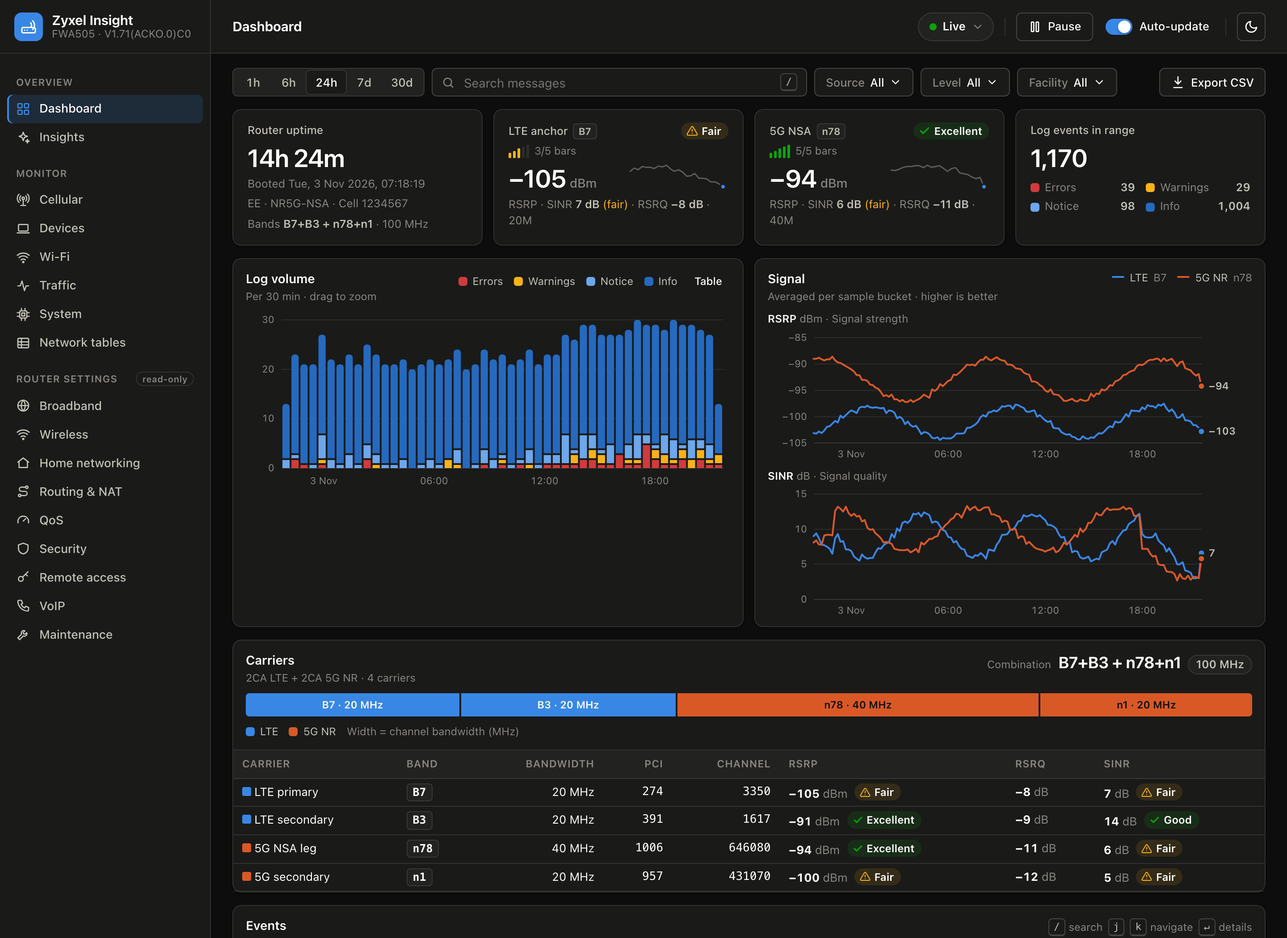
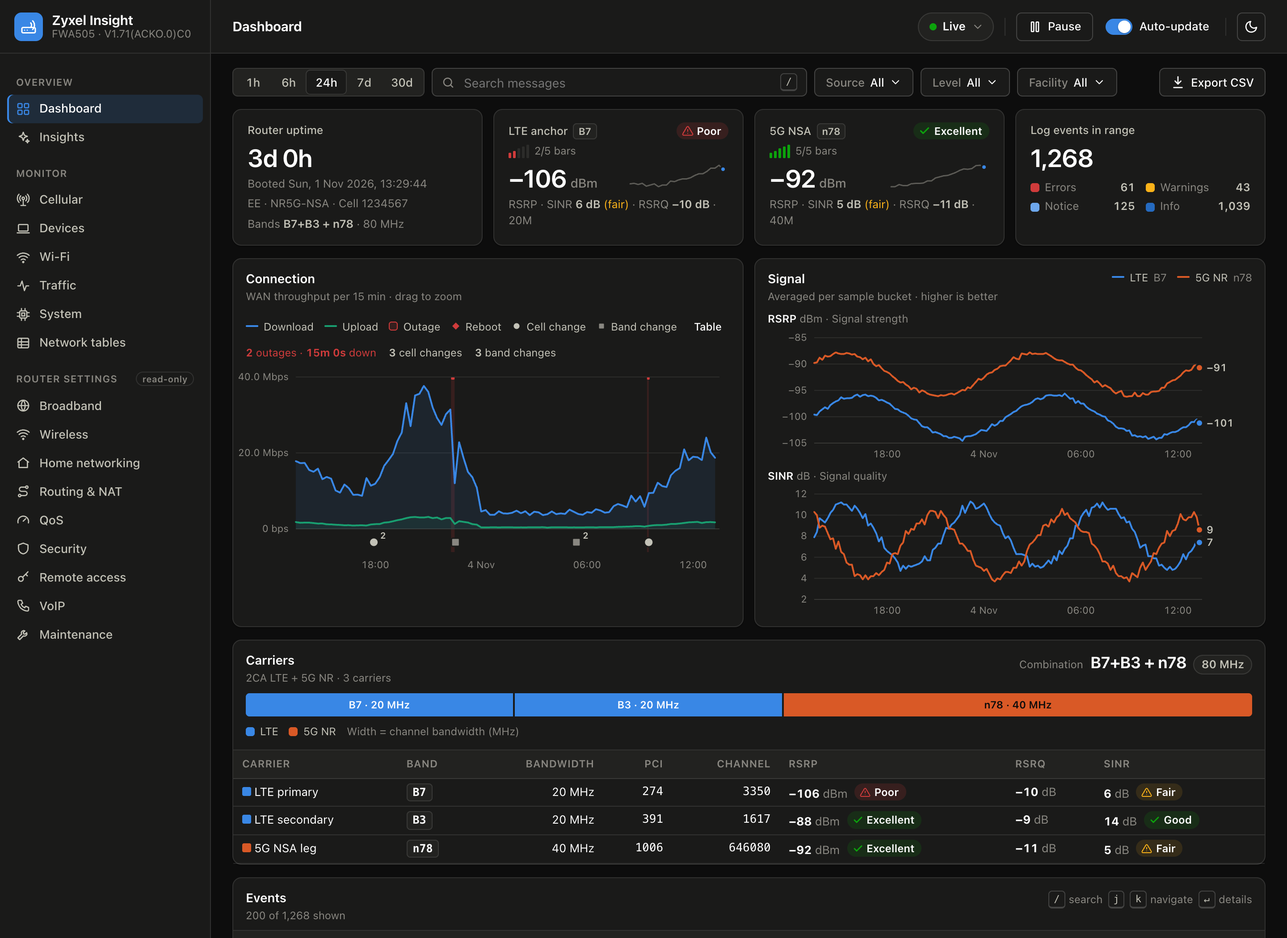
Update docs and screenshots

diff --git a/README.md b/README.md
@@ -2,7 +2,7 @@
 
 A local monitoring and diagnostics dashboard for the **Zyxel FWA505** 5G router. It collects what the router's own admin page only shows in the moment: signal and carrier history, connected devices, traffic, reboots and logs. It then turns that history into insights, such as configuration risks, reliability and actionable signal advice.
 
-Insight runs on your own computer, talks only to your router, and is **strictly read-only**.
+Insight runs on your own computer, talks only to your router, and is **read-only**, with two deliberate exceptions: the Messages tab can send, mark read and delete SMS on the router's SIM, and Radio control can change the preferred network mode and bands, always as a trial that reverts unless kept (`SMS_ENABLED=false` and `RADIO_CONTROL_ENABLED=false` turn them off).
 
 ![Dashboard](docs/screenshots/dashboard.png)
 
@@ -31,16 +31,20 @@ Insight runs on your own computer, talks only to your router, and is **strictly 
 - **Log archive:** the router keeps only its last ~100 log lines in memory and loses them on reboot. Insight copies them continuously, deduplicates them and stores them in SQLite. Remote syslog can be added for complete history.
 - **Signal history:** LTE and 5G RSRP, SINR and RSRQ every 5 seconds, plus per-carrier readings for every aggregated band.
 - **Carriers and change events:** the active band combination (for example `B7+B3 + n78+n1`) and total aggregated bandwidth, with an event logged whenever a carrier or serving cell changes.
-- **Reboots and outages:** reboots are detected from uptime, even ones that happen while Insight is stopped, and stamped with the real boot time. Periods when the router stopped answering are recorded as outages.
+- **Reboots and outages:** reboots are detected from uptime, even ones that happen while Insight is stopped, and stamped with the real boot time. Outages are recorded in two kinds: the router stopped answering Insight, or it answered but its mobile data connection was down (no SIM, cellular interface down, or no WAN address).
 - **Devices:** first and last seen, connect and disconnect history, a new-device alert, and per-device Wi-Fi signal over time.
 - **Traffic:** live throughput and daily data usage, computed from the router's interface counters.
+- **Radio control:** choose the network mode (automatic, 5G SA, 5G NSA, 4G only) and which bands the modem may use, with each band's measured strength, quality and time in use beside it, and suggestions from that history (for example "strongest 4G + all 5G"). Every change is a 5-minute trial that switches back unless you keep it. Also shows the live carrier aggregation and the serving mast's eNodeB ID and sector, to look up on a coverage map.
+- **Messages:** the SIM's texts as conversations, with replies, new messages, mark-as-read and delete, an unread badge in the sidebar, and a live character and SMS-part counter that uses the router's own encoding (GSM or Unicode, long messages split into parts).
 
 **Insights the router does not provide**
 
-- **Configuration audit:** 20 checks with a security score, covering remote management exposure, WPS, Wi-Fi security, DFS channels, UPnP, DMZ, SNMP, firmware updates and logging.
+- **Configuration audit:** 21 checks with a security score, covering whether the router is reachable from the Internet at all (carrier-grade NAT), remote management exposure, WPS, Wi-Fi security, DFS channels, UPnP, DMZ, SNMP, firmware updates and logging. Notes are facts and never move the score.
+- **Connection timeline:** WAN throughput on the dashboard with outages, reboots, cell handovers and band changes marked on the same axis, so a slowdown lines up with its cause. Time Insight wasn't collecting is hatched as "not monitored" rather than passing for a quiet period. Click a marker to zoom to that moment and its logs.
 - **Reliability:** availability, outage durations, and reboots with or without a logged reason.
-- **Signal health:** the share of time spent in Good, Fair and Poor signal on the router's own 5-bar scale, worst-10% values, 5G availability and time spent in each band combination.
-- **Recommendations:** prioritised and specific, for example "B3 is 15 dB stronger than your primary B7" or "Phone has weak Wi-Fi".
+- **Signal health:** the share of time spent in Good, Fair and Poor signal on the router's own 5-bar scale, worst-10% values, 5G availability, time spent in each band combination, and an hour-of-day profile of signal quality and download that shows busy-hour dips once there are a few days of data.
+- **Recommendations:** prioritised and specific, based on history rather than a single reading, for example "B3 averages 15 dB stronger than B7, your usual primary", "Signal quality limits speed (5G 5.4 dB)", mobile data drops with their causes, or "Phone has weak Wi-Fi".
+- **Usage:** data used per period, plus this month so far and where it's heading.
 
 **Every router page, read-only**
 
@@ -56,7 +60,7 @@ The router's admin sections (Broadband, Wireless, Home networking, Routing and N
 
 <table>
   <tr>
-    <td width="50%"><b>Insights</b>: audit, recommendations, signal health, reliability<br><img src="docs/screenshots/insights.png" alt="Insights"></td>
+    <td width="50%"><b>Insights</b>: audit, recommendations, signal health, hour-of-day profile, usage<br><img src="docs/screenshots/insights.png" alt="Insights"></td>
     <td width="50%"><b>Cellular</b>: carriers, band combination, signal history<br><img src="docs/screenshots/cellular.png" alt="Cellular"></td>
   </tr>
   <tr>
@@ -67,9 +71,10 @@ The router's admin sections (Broadband, Wireless, Home networking, Routing and N
     <td><b>System</b>: load, reboots, outages, device details<br><img src="docs/screenshots/system.png" alt="System"></td>
     <td><b>Router settings</b>: read-only mirror of the admin pages<br><img src="docs/screenshots/settings.png" alt="Router settings"></td>
   </tr>
+  <tr>
+    <td colspan="2" align="center"><b>Messages</b>: the SIM's texts as conversations, with replies and a live SMS-part counter<br><img src="docs/screenshots/messages.png" alt="Messages" width="50%"></td>
+  </tr>
 </table>
-
-<p align="center"><img src="docs/screenshots/mobile.png" alt="Mobile layout" width="280"></p>
 
 All screenshots use the bundled mock router and synthetic demo data. No real network data is shown.
 
@@ -109,10 +114,14 @@ Notes:
 
 ## Safety and privacy
 
-- **Read-only by construction:**
-  - **No writes:** the router client refuses every non-GET request except login and logout, and never calls `DEL_LOG`.
+- **Read-only by construction, with two exceptions:**
+  - **No writes:** the router client refuses every non-GET request except login, logout, SMS and the band selection, and never calls `DEL_LOG`.
+  - **The SMS exception:** `POST`/`PUT`/`DELETE` are allowed to exactly one endpoint, `/cgi-bin/DAL?oid=cellwan_sms`, with a fixed set of parameters, and only while `SMS_ENABLED` is on (the default). That's how the Messages tab sends, marks read and deletes texts. It can't be pointed at any other setting. Sends are never retried (a retry could text twice), are limited to 5 a minute and 30 an hour, and each send or delete is logged with the number partly masked and without the text.
+  - **The band-selection exception:** `PUT` is allowed to exactly one endpoint, `/cgi-bin/DAL?oid=cellwan_band`, with nothing else on the URL, and only while `RADIO_CONTROL_ENABLED` is on (the default). The body is the router's own object with only the network mode and band list changed, checked first against the same rules as the router's admin page (for example, 5G NSA keeps at least one 4G and one 5G band). Each change is a trial: unless you press **Keep** within 5 minutes, Insight puts back the previous selection, also after a restart, and retries until the router accepts it. Changes are at least 15 s apart so the modem can re-register, and each one is logged.
+  - **What it can't do:** cell (PCI) lock isn't offered: firmware V1.71 hides it and returns nothing for it. Carrier aggregation has no setting at all; the network decides it.
+  - **Messages aren't stored:** they're read live from the SIM; Insight keeps no copy, and the router cache skips them. While the dashboard is open, the inbox is checked once a minute for the unread badge.
   - **Allowlist:** router data is read only from an explicit list of endpoints (`server/src/router/catalog.js`).
-  - **Excluded endpoints:** endpoints that do work even on a GET are left out, including network and PLMN scans, ping and iperf tests, azimuth calibration, backup, the online firmware check and SMS.
+  - **Excluded endpoints:** endpoints that do work even on a GET are left out, including network and PLMN scans, ping and iperf tests, azimuth calibration, backup and the online firmware check.
 - **Secrets never reach the browser:** the router returns some credentials in plain text, such as the Wi-Fi passphrase, SNMP communities and service passwords. They are masked on the server. The configuration audit runs on the raw values server-side.
 - **Respects the router:**
   - **Lockout protection:** a rejected login halts collection instead of retrying, because the router locks the account after 3 failures.
@@ -121,7 +130,7 @@ Notes:
 - **Local by default, password on the LAN:**
   - **Bound to localhost:** the server binds to `127.0.0.1` by default. To open it to other devices, set `HOST=0.0.0.0` (or a LAN IP) **and** `DASHBOARD_PASSWORD`; Insight refuses to start on a non-loopback address without a password.
   - **Login:** with `DASHBOARD_PASSWORD` set, every page, API call and live stream needs HTTP Basic auth. The username is ignored (use `insight`). The browser asks once and reuses it. Use it on a trusted LAN only: Basic auth over plain HTTP can be sniffed, so put a TLS reverse proxy in front for anything wider, and never forward the port from the internet.
-  - **Browser protections:** requests must use a known host name (localhost, this machine's IPs and hostname, `ALLOWED_HOSTS`), which blocks DNS-rebinding pages. Buttons that change state (Pause/Resume) need an `X-Insight-Request` header and a same-origin `Origin`, so other sites cannot trigger them. Responses carry a strict Content-Security-Policy, `X-Frame-Options: DENY`, `nosniff` and `no-referrer`.
+  - **Browser protections:** requests must use a known host name (localhost, this machine's IPs and hostname, `ALLOWED_HOSTS`), which blocks DNS-rebinding pages. Requests that change state (Pause/Resume, sending and deleting SMS, band changes) need an `X-Insight-Request` header and a same-origin `Origin`, so other sites cannot trigger them. Responses carry a strict Content-Security-Policy, `X-Frame-Options: DENY`, `nosniff` and `no-referrer`.
   - **Router load caps:** at most 30 endpoints per `/api/router` request, a forced refresh (`fresh=1`) at most once per 10 s per endpoint (30 s for Insights), and at most 20 live (SSE) connections.
   - **Syslog and SNMP listeners:** they bind to `0.0.0.0` so the router can reach them, but only accept packets from the router (the host in `ROUTER_URL`) and loopback, unless `INGEST_ALLOWED_SOURCES` says otherwise. Stored rows are capped at 600 syslog lines and 60 traps per minute; denied and dropped packets are counted in the status and warnings are logged at most once a minute.
   - **Ignored by git:** the database (`server/data/`, including `backups/`) and `.env` are excluded.
@@ -133,36 +142,40 @@ See [SECURITY.md](SECURITY.md) for the threat model and how to report a vulnerab
 
 All settings are environment variables, read from `.env` in the project root. See `.env.example`.
 
-| Variable                            | Default                  | Purpose                                                                                                |
-| ----------------------------------- | ------------------------ | ------------------------------------------------------------------------------------------------------ |
-| `ROUTER_URL`                        | `https://192.168.1.1`    | Router address (self-signed certificate accepted for this host only)                                   |
-| `ROUTER_USER` / `ROUTER_PASSWORD`   | `admin` / none           | Router admin login                                                                                     |
-| `POLL_INTERVAL_SEC`                 | `120`                    | How often the router log (last 100 lines) is read                                                      |
-| `STATUS_INTERVAL_SEC`               | `5`                      | Signal, carriers and uptime                                                                            |
-| `SYSLOG_PORT` / `SYSLOG_HOST`       | `5514` / `0.0.0.0`       | Remote syslog listener                                                                                 |
-| `SNMP_TRAP_PORT` / `SNMP_TRAP_HOST` | `1162` / `0.0.0.0`       | SNMP trap listener                                                                                     |
-| `SNMP_COMMUNITY`                    | empty (any)              | Only accept traps with this community                                                                  |
-| `INGEST_ALLOWED_SOURCES`            | the router's address     | Comma-separated IPs/hostnames allowed to send syslog and traps; `*` = anyone (loopback always allowed) |
-| `HOST` / `PORT`                     | `127.0.0.1` / `4400`     | Web UI and API                                                                                         |
-| `DASHBOARD_PASSWORD`                | empty (no login)         | HTTP Basic password, any username. Required when `HOST` is not loopback                                |
-| `ALLOWED_HOSTS`                     | empty                    | Extra host names the UI may be opened by (DNS name, reverse proxy)                                     |
-| `DB_PATH`                           | `server/data/insight.db` | SQLite database (relative to the project root)                                                         |
-| `RETAIN_LOGS_DAYS`                  | `180`                    | Log retention                                                                                          |
-| `RETAIN_SIGNAL_DAYS`                | `90`                     | 5-second signal sample retention                                                                       |
-| `RETAIN_WIFI_DAYS`                  | `30`                     | Per-device Wi-Fi sample retention                                                                      |
-| `BACKUP_KEEP`                       | `4`                      | Database backups kept in `<DB dir>/backups/` (`0` = off)                                               |
-| `BACKUP_EVERY_DAYS`                 | `7`                      | Days between database backups                                                                          |
+| Variable                            | Default                  | Purpose                                                                                                                         |
+| ----------------------------------- | ------------------------ | ------------------------------------------------------------------------------------------------------------------------------- |
+| `ROUTER_URL`                        | `https://192.168.1.1`    | Router address (self-signed certificate accepted for this host only)                                                            |
+| `ROUTER_USER` / `ROUTER_PASSWORD`   | `admin` / none           | Router admin login                                                                                                              |
+| `POLL_INTERVAL_SEC`                 | `120`                    | How often the router log (last 100 lines) is read                                                                               |
+| `STATUS_INTERVAL_SEC`               | `5`                      | Signal, carriers and uptime                                                                                                     |
+| `SYSLOG_PORT` / `SYSLOG_HOST`       | `5514` / `0.0.0.0`       | Remote syslog listener                                                                                                          |
+| `SNMP_TRAP_PORT` / `SNMP_TRAP_HOST` | `1162` / `0.0.0.0`       | SNMP trap listener                                                                                                              |
+| `SNMP_COMMUNITY`                    | empty (any)              | Only accept traps with this community                                                                                           |
+| `INGEST_ALLOWED_SOURCES`            | the router's address     | Comma-separated IPs/hostnames allowed to send syslog and traps; `*` = anyone (loopback always allowed)                          |
+| `HOST` / `PORT`                     | `127.0.0.1` / `4400`     | Web UI and API                                                                                                                  |
+| `DASHBOARD_PASSWORD`                | empty (no login)         | HTTP Basic password, any username. Required when `HOST` is not loopback                                                         |
+| `ALLOWED_HOSTS`                     | empty                    | Extra host names the UI may be opened by (DNS name, reverse proxy)                                                              |
+| `SMS_ENABLED`                       | `true`                   | Messages tab: read, send and delete SMS on the router's SIM                                                                     |
+| `RADIO_CONTROL_ENABLED`             | `true`                   | Radio control: change the preferred network mode and bands, as trials. With `SMS_ENABLED=false` too, Insight is fully read-only |
+| `DB_PATH`                           | `server/data/insight.db` | SQLite database (relative to the project root)                                                                                  |
+| `RETAIN_LOGS_DAYS`                  | `180`                    | Log retention                                                                                                                   |
+| `RETAIN_SIGNAL_DAYS`                | `90`                     | 5-second signal sample retention                                                                                                |
+| `RETAIN_WIFI_DAYS`                  | `30`                     | Per-device Wi-Fi sample retention                                                                                               |
+| `BACKUP_KEEP`                       | `4`                      | Database backups kept in `<DB dir>/backups/` (`0` = off)                                                                        |
+| `BACKUP_EVERY_DAYS`                 | `7`                      | Days between database backups                                                                                                   |
 
 ## Accuracy and limitations
 
 - **Values come straight from the router:** they were verified against raw reads, and carrier bands, PCI, RSRP, aggregated bandwidth, uptime (within about 1 s) and Wi-Fi client RSSI all match.
+- **"No measurement" is not a reading:** the modem reports placeholders such as `-128` when it has nothing to measure. Those, and anything outside the 3GPP measurement ranges, are dropped rather than stored, so they can't show up as impossible minimums.
+- **Mobile data vs. the router:** the router answering on the LAN says nothing about the internet behind it, so mobile data is judged separately from the SIM state, cellular interface and WAN address. A drop of either kind is an outage; only "router unreachable" also leaves a gap in the signal history.
 - **Signal ratings use the router's own 5-bar RSRP scale,** taken from its web UI, so Insight and the admin page agree. SINR, which the router does not rate, uses standard LTE/NR guidance.
 - **Reboot causes:**
   - **What Insight can know:** that the router restarted, and exactly when.
   - **What it cannot know:** why, unless the router's log says so. A crash, a power cut and a manual reboot look identical, which is why reboots show "no logged reason".
 - **Memory includes cache:** the router reports total and free memory only, so "memory in use" includes reclaimable cache.
 - **Temperature:** none is exposed by this firmware (web API or shell), so Insight does not show one.
-- **History needs Insight running:** while the computer sleeps, only totals (data used, reboots) can be recovered afterwards. Run Insight on an always-on machine for complete history.
+- **History needs Insight running:** while the computer sleeps, only totals (data used, reboots) can be recovered afterwards, and charts hatch that time as "not monitored". Run Insight on an always-on machine for complete history.
 
 ## Development
 
@@ -177,17 +190,23 @@ npm test             # unit tests (node:test)
 
 `server/dev/mock-router.js` serves the same endpoints and response shapes as a real FWA505. The fixtures in `server/dev/fixtures/` were captured read-only from a real device, with credentials masked and identifiers replaced: MACs, serial number, IMEI, IMSI, ICCID, cell ID and network names.
 
+The mock keeps a band selection that Radio control can change. It also has an SMS inbox (GSM, Unicode and a named sender) that receives a new text every 7 minutes, and accepts sends, marking read and deletes, so the Messages tab can be tried without touching a real SIM.
+
+To exercise mobile-data outages, set `MOCK_WAN_DROP=<down>/<cycle>` in seconds, for example `MOCK_WAN_DROP=90/600 npm run mock -w server`: the router stays reachable but loses its WAN address for 90 s out of every 600 s.
+
 ### Project structure
 
 ```
-shared/                 Domain rules shared by server and UI (signal scales, severities)
+shared/                 Domain rules shared by server and UI (signal scales, severities, SMS encoding, band rules)
 server/src/
   index.js              Composition root: wiring, startup, graceful shutdown
-  router/               Read-only router client, endpoint allowlist, shared cache, secret masking
-  collector/            Polling and recovery, radio and carrier interpretation, reboots, samplers
+  router/               Router client (read-only plus SMS and band selection), endpoint allowlist, shared cache, secret masking
+  collector/            Polling and recovery, radio and carrier interpretation, mobile data state, reboots, samplers
   ingest/               Syslog and SNMP trap listeners (shared UDP listener)
   logs/                 Router log and syslog parsing, sliding-window deduplication
-  insights/             Configuration audit, statistics and recommendations
+  insights/             Configuration audit, statistics, recommendations, timeline and monitored coverage
+  sms/                  Messages: live SIM inbox, send, mark read, delete, send limits
+  radio/                Band selection: validation, trials that revert unless kept
   storage/              SQLite schema, statement cache, one repository per area, retention
   events/               Server-Sent Events hub
   http/                 Express app, query parsing, one route module per API area
@@ -199,7 +218,7 @@ web/src/
   hooks/                useAsync, useRouterData, useServerEvents, useUrlFilters, ...
   lib/                  Formatting, labels, chart series and ranges
   components/           ui/ (building blocks), charts/, shell/ (sidebar, top bar)
-  features/             Dashboard- and cellular-specific components
+  features/             Dashboard-, cellular- and insights-specific components
   pages/                One component per route; settings/ mirrors the admin pages
   styles/               Tokens, base, layout, components, charts, pages
 ```
@@ -219,6 +238,8 @@ web/src/
 | Collector shows **Halted**               | The router rejected the login. Fix `ROUTER_USER`/`ROUTER_PASSWORD`, then press **Retry login**. Insight does not retry on its own, to avoid the router's 3-strike lockout. |
 | Admin page says "Duplicated login"       | Press **Pause** in Insight before using the admin page, and **Resume** afterwards.                                                                                         |
 | Remote syslog stays "Not set up"         | Check the router's log server IP and port. Ports below 1024 need root on macOS, so use `5514`.                                                                             |
+| No **Messages** tab                      | `SMS_ENABLED=false` is set. Remove it (or set `true`) and restart Insight.                                                                                                 |
+| No **Radio control** tab                 | `RADIO_CONTROL_ENABLED=false` is set. Remove it (or set `true`) and restart Insight.                                                                                       |
 | A "gap" warning appears in the event log | Lines rolled out of the router's 100-line buffer between reads. Enable remote syslog or lower `POLL_INTERVAL_SEC`.                                                         |
 
 ## Compatibility

diff --git a/SECURITY.md b/SECURITY.md
@@ -9,14 +9,16 @@ Please report security problems privately, not in a public issue: use GitHub's *
 Zyxel Insight is a single-user tool for a home or small-office LAN.
 
 - **Where it runs:** on a computer inside the same LAN as the router. It is not designed to be exposed to the internet; never port-forward it. By default the web UI binds to `127.0.0.1`. On a LAN address it refuses to start without `DASHBOARD_PASSWORD` (HTTP Basic auth). Basic auth over plain HTTP is only as private as the network it crosses; use a TLS reverse proxy if that matters.
-- **What it can do to the router:** read only. The router client refuses every non-GET request except login and logout, and only reads an explicit allowlist of endpoints. Insight cannot change settings, reboot the router or clear its log.
-- **Browser attacks it defends against:** DNS rebinding (Host allowlist), cross-site requests (custom header plus Origin check on state-changing requests), clickjacking and script injection (CSP, `X-Frame-Options`), and spreadsheet formula injection in CSV exports.
+- **What it can do to the router:** read, plus SMS and the band selection. The router client refuses every non-GET request except login, logout, SMS writes and band-selection writes, and only reads an explicit allowlist of endpoints. SMS writes (send, mark read, delete) can reach only `/cgi-bin/DAL?oid=cellwan_sms` with a fixed set of parameters, and only while `SMS_ENABLED` is on. Band-selection writes are a `PUT` to `/cgi-bin/DAL?oid=cellwan_band` with nothing else on the URL, only while `RADIO_CONTROL_ENABLED` is on. Both are on by default; set both to `false` for a fully read-only Insight. Insight cannot change any other setting, reboot the router or clear its log.
+- **SMS and cost:** anyone who can open the dashboard can send texts from the router's SIM, at your plan's rates. Sends are limited to 5 a minute and 30 an hour and are logged (number partly masked, no text). If the dashboard is reachable by others on your LAN, set `DASHBOARD_PASSWORD` or turn SMS off.
+- **Band selection and connectivity:** anyone who can open the dashboard can change which bands the modem uses, and a poor choice can slow or drop mobile data. Each change is a trial that Insight reverts after 5 minutes unless someone presses Keep (the pending revert survives a restart), changes are spaced at least 15 s apart, and each is logged. The router stays reachable on the LAN throughout, so a revert never depends on the mobile connection. If the dashboard is reachable by others on your LAN, set `DASHBOARD_PASSWORD` or turn radio control off.
+- **Browser attacks it defends against:** DNS rebinding (Host allowlist), cross-site requests (custom header plus Origin check on every state-changing request, including SMS send and delete and band changes), clickjacking and script injection (CSP, `X-Frame-Options`), and spreadsheet formula injection in CSV exports.
 - **Network inputs:** the syslog and SNMP trap listeners accept packets only from the router and loopback by default, and cap stored rows per minute. Anyone who can spoof the router's IP on your LAN can still inject log lines.
 - **Out of scope:** an attacker who already has a shell on the machine running Insight, or the router's admin password.
 
 ## What is stored
 
 - **`.env`:** the router admin password (and `DASHBOARD_PASSWORD`) in plain text. Keep the file readable only by the user running Insight.
-- **SQLite database** (`server/data/insight.db` and periodic copies in `server/data/backups/`): router logs, signal and traffic history, connected devices (MAC addresses, host names, IPs) and reboot/outage history. Router credentials (Wi-Fi passphrase, SNMP communities, service passwords) are **not** stored, and are masked before any router data reaches the browser. Device identifiers such as IMEI, IMSI, ICCID and serial number are shown to logged-in users on purpose.
+- **SQLite database** (`server/data/insight.db` and periodic copies in `server/data/backups/`): router logs, signal and traffic history, connected devices (MAC addresses, host names, IPs) and reboot/outage history. SMS messages are **not** stored: they're read live from the SIM each time the Messages tab is open. What Insight does keep about SMS: the event log of each send and delete (number partly masked, no text), the time of each send keyed by a hash of the message (the router records none), and your own number if you type it in on the Messages page. Router credentials (Wi-Fi passphrase, SNMP communities, service passwords) are **not** stored, and are masked before any router data reaches the browser. Device identifiers such as IMEI, IMSI, ICCID and serial number are shown to logged-in users on purpose.
 
 Nothing is sent anywhere except to the router.
